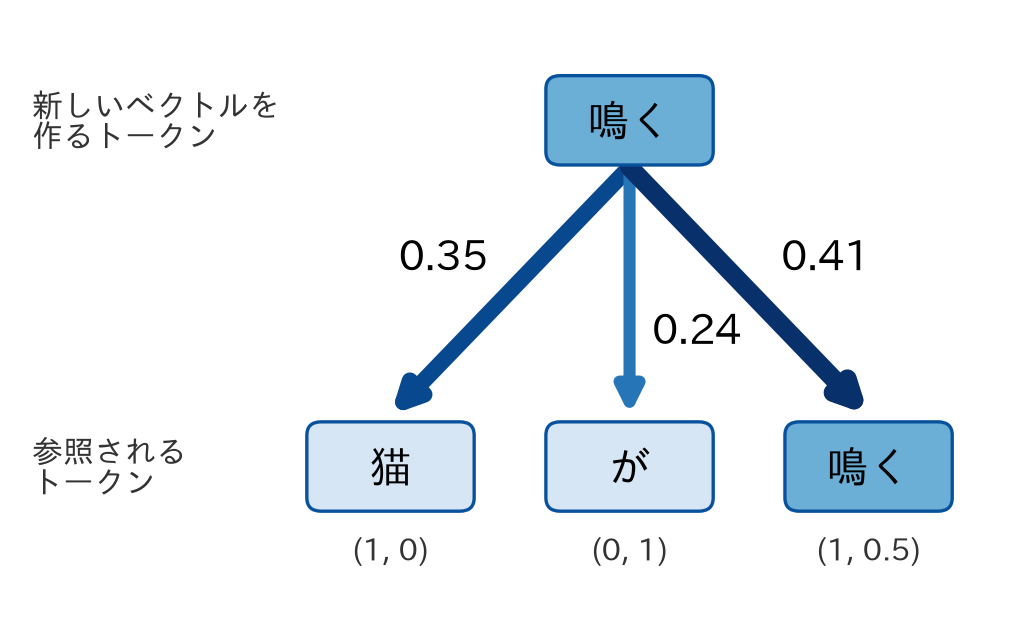
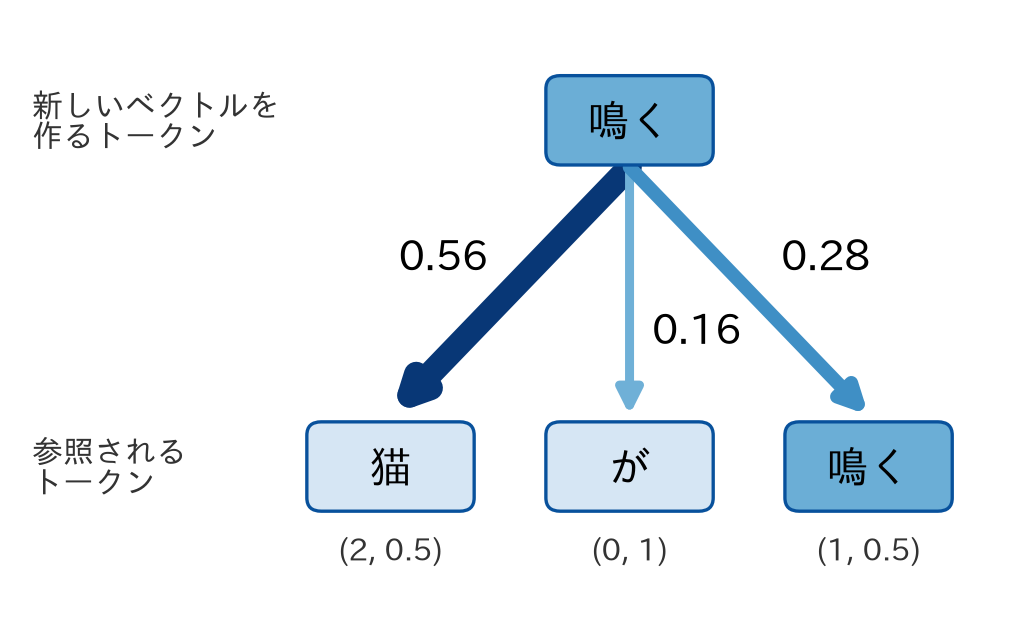
lectures(dsp): 第 8 章の注意機構の例を「鳴く」が「猫」に最も大きな重みを付ける数値に作り直す
前の数値では「鳴く」が自分自身に最大の重み (0.41) を付け, 新しいベクトルが「猫」の方向へ
寄らなかった. 本文の「関係の深いトークンほど大きな割合で取り込む」という説明と図が合わない
ので, 猫のベクトルを (2, 0.5) にして重みを 0.56 / 0.16 / 0.28 にした. 表, 重み付きの和,
矢印の図, ベクトルの図, ヒートマップを同じ数値から作り直した. 演習の回答は数値を使わないので変更なし.

plan: dsp-revision-2026-10-memo

diff --git a/lectures/dsp/dsp8.md b/lectures/dsp/dsp8.md
@@ -393,17 +393,17 @@ $$w_{new} = 0 - 0.1 \cdot (-4) = 0.4 $$
 
 | トークン | ベクトル |
 |---|---|
-| 猫 | $\boldsymbol{x}_1 = (1, 0)$ |
+| 猫 | $\boldsymbol{x}_1 = (2, 0.5)$ |
 | が | $\boldsymbol{x}_2 = (0, 1)$ |
 | 鳴く | $\boldsymbol{x}_3 = (1, 0.5)$ |
 
 単語の意味は, 周りの単語によって変わります. 「鳴く」は「猫が鳴く」と「鳥が鳴く」で思い浮かべる声が違いますし, 「かける」は「電話をかける」と「眼鏡をかける」で意味が違います. そのため, 各トークンのベクトルを文の中の他のトークンの情報で補ってから使うと, 文脈に応じた表現が得られます.
 
-**注意機構**は, この補う操作を行う仕組みです. 各トークンは, 文中のトークン (自分自身を含む) のうち, 自分の意味を決めるのに関係の深いものほど大きな割合で情報を取り込み, 自分のベクトルを作り直します. 「猫が鳴く」の「鳴く」なら, 誰が鳴くのかを表す「猫」の情報を, 助詞の「が」より大きな割合で取り込みます. 次の図は, 「鳴く」が各トークンから情報を取り込む割合を, 矢印の太さと数値で表したものです. 3 つの割合の合計は 1 で, この割合を**注意の重み**といいます.
+**注意機構**は, この補う操作を行う仕組みです. 各トークンは, 文中のトークン (自分自身を含む) のうち, 自分の意味を決めるのに関係の深いものほど大きな割合で情報を取り込み, 自分のベクトルを作り直します. 「猫が鳴く」の「鳴く」なら, 誰が鳴くのかを表す「猫」の情報を最も大きな割合で取り込みます. 次の図は, 「鳴く」が各トークンから情報を取り込む割合を, 矢印の太さと数値で表したものです. 3 つの割合の合計は 1 で, この割合を**注意の重み**といいます.
 
 ![「鳴く」が各トークンから取り込む割合 (注意の重み)](/images/dsp/ch8/attention-arrows.png)
 
-図の上段が新しいベクトルを作るトークン, 下段が参照されるトークンです. 「鳴く」は自分自身を 0.41, 「猫」を 0.35, 「が」を 0.24 の割合で取り込みます. 取り込むとは, 各トークンのベクトルを注意の重みで重み付けして足し合わせ, 「鳴く」の新しいベクトルとすることです. 重みの合計が 1 なので, これは全トークンのベクトルの重み付きの平均になります.
+図の上段が新しいベクトルを作るトークン, 下段が参照されるトークンです. 「鳴く」は「猫」を 0.56, 自分自身を 0.28, 「が」を 0.16 の割合で取り込みます. 取り込むとは, 各トークンのベクトルを注意の重みで重み付けして足し合わせ, 「鳴く」の新しいベクトルとすることです. 重みの合計が 1 なので, これは全トークンのベクトルの重み付きの平均になります.
 
 重みは, 2 つのトークンのベクトルがどれだけ似ているかから計算します. 図の数値を求める手順は次のとおりです.
 
@@ -416,28 +416,28 @@ $$w_{new} = 0 - 0.1 \cdot (-4) = 0.4 $$
 
 | 参照するトークン | 1. 内積 | 2. $\sqrt{2}$ で割る | $e^{(2 の値)}$ | 3. 注意の重み |
 |---|---|---|---|---|
-| 猫 | $1 \times 1 + 0.5 \times 0 = 1$ | $0.707$ | $2.028$ | $2.028 / 5.873 \approx 0.35$ |
-| が | $1 \times 0 + 0.5 \times 1 = 0.5$ | $0.354$ | $1.424$ | $1.424 / 5.873 \approx 0.24$ |
-| 鳴く | $1 \times 1 + 0.5 \times 0.5 = 1.25$ | $0.884$ | $2.420$ | $2.420 / 5.873 \approx 0.41$ |
-| 合計 | | | $5.873$ | $1$ |
+| 猫 | $1 \times 2 + 0.5 \times 0.5 = 2.25$ | $1.591$ | $4.909$ | $4.909 / 8.753 \approx 0.56$ |
+| が | $1 \times 0 + 0.5 \times 1 = 0.5$ | $0.354$ | $1.424$ | $1.424 / 8.753 \approx 0.16$ |
+| 鳴く | $1 \times 1 + 0.5 \times 0.5 = 1.25$ | $0.884$ | $2.420$ | $2.420 / 8.753 \approx 0.28$ |
+| 合計 | | | $8.753$ | $1$ |
 
 4 の重み付きの和は次のようになります.
 
 $$
-0.35 \times (1, 0) + 0.24 \times (0, 1) + 0.41 \times (1, 0.5) \approx (0.76, 0.45)
+0.56 \times (2, 0.5) + 0.16 \times (0, 1) + 0.28 \times (1, 0.5) \approx (1.40, 0.58)
 $$
 
 次の図は, 3 つのトークンのベクトルと, 「鳴く」の新しいベクトルを, 2 次元の平面に矢印で描いたものです.
 
 ![3 つのトークンのベクトルと「鳴く」の新しいベクトル](/images/dsp/ch8/attention-weighted-sum.png)
 
-新しいベクトル $(0.76, 0.45)$ (橙) は, 0 以上で合計が 1 の重みを付けた平均なので, 3 つのベクトルの先端を結ぶ三角形 (破線) の内側に入ります. 最も大きな重み 0.41 を自分自身に付けたので, もとの $(1, 0.5)$ の近くにあります. 一方で「猫」と「が」の情報が混ざった分だけ動いており, 第 1 成分は「が」の 0 が混ざって 1 から 0.76 に減り, 第 2 成分は「猫」の 0 と「が」の 1 が混ざって 0.5 から 0.45 に減っています.
+新しいベクトル $(1.40, 0.58)$ (橙) は, 0 以上で合計が 1 の重みを付けた平均なので, 3 つのベクトルの先端を結ぶ三角形 (破線) の内側に入ります. 最も大きな重み 0.56 を「猫」に付けたので, もとの $(1, 0.5)$ から「猫」の $(2, 0.5)$ の方向へ動いています. 第 1 成分は「猫」の 2 が大きな割合で混ざって 1 から 1.40 に増え, 第 2 成分は「が」の 1 が混ざった分だけ 0.5 から 0.58 に増えています. こうして「鳴く」は, 鳴いているのが猫であるという情報を含んだベクトルになります.
 
 同じ計算を「猫」と「が」についても行うと, 注意の重みは次の図のようになります. 行が新しいベクトルを計算するトークン, 列が参照されるトークンで, 各行の重みの合計は 1 です.
 
 ![「猫が鳴く」の注意の重み](/images/dsp/ch8/attention-weights.png)
 
-この例ではベクトルを手で決めたので, 重みの大小は内積の計算の結果にすぎず, 文の意味から決まったものではありません. 実際のモデルでは, 文脈を捉えるのに役立つ重みになるように, トークンのベクトルと次の節の変換を学習で決めます. 例えば「鳴く」の意味を決めるには, 誰が鳴いているかを表す「猫」に大きな重みが付くように学習されます.
+この例では, 「鳴く」から見て「猫」との内積が最も大きくなるように, ベクトルを手で決めました. 実際のモデルでは, ベクトルを人が決めることはせず, 文脈を捉えるのに役立つ重みになるように, トークンのベクトルと次の節の変換を学習で決めます. 「鳴く」の意味を決めるには誰が鳴いているかが役立つので, 学習の結果として「猫」に大きな重みが付きます.
 
 この節に対応する演習は, 章末の[Exercise DSP8-2](#exercise-dsp8-2)です.
 
